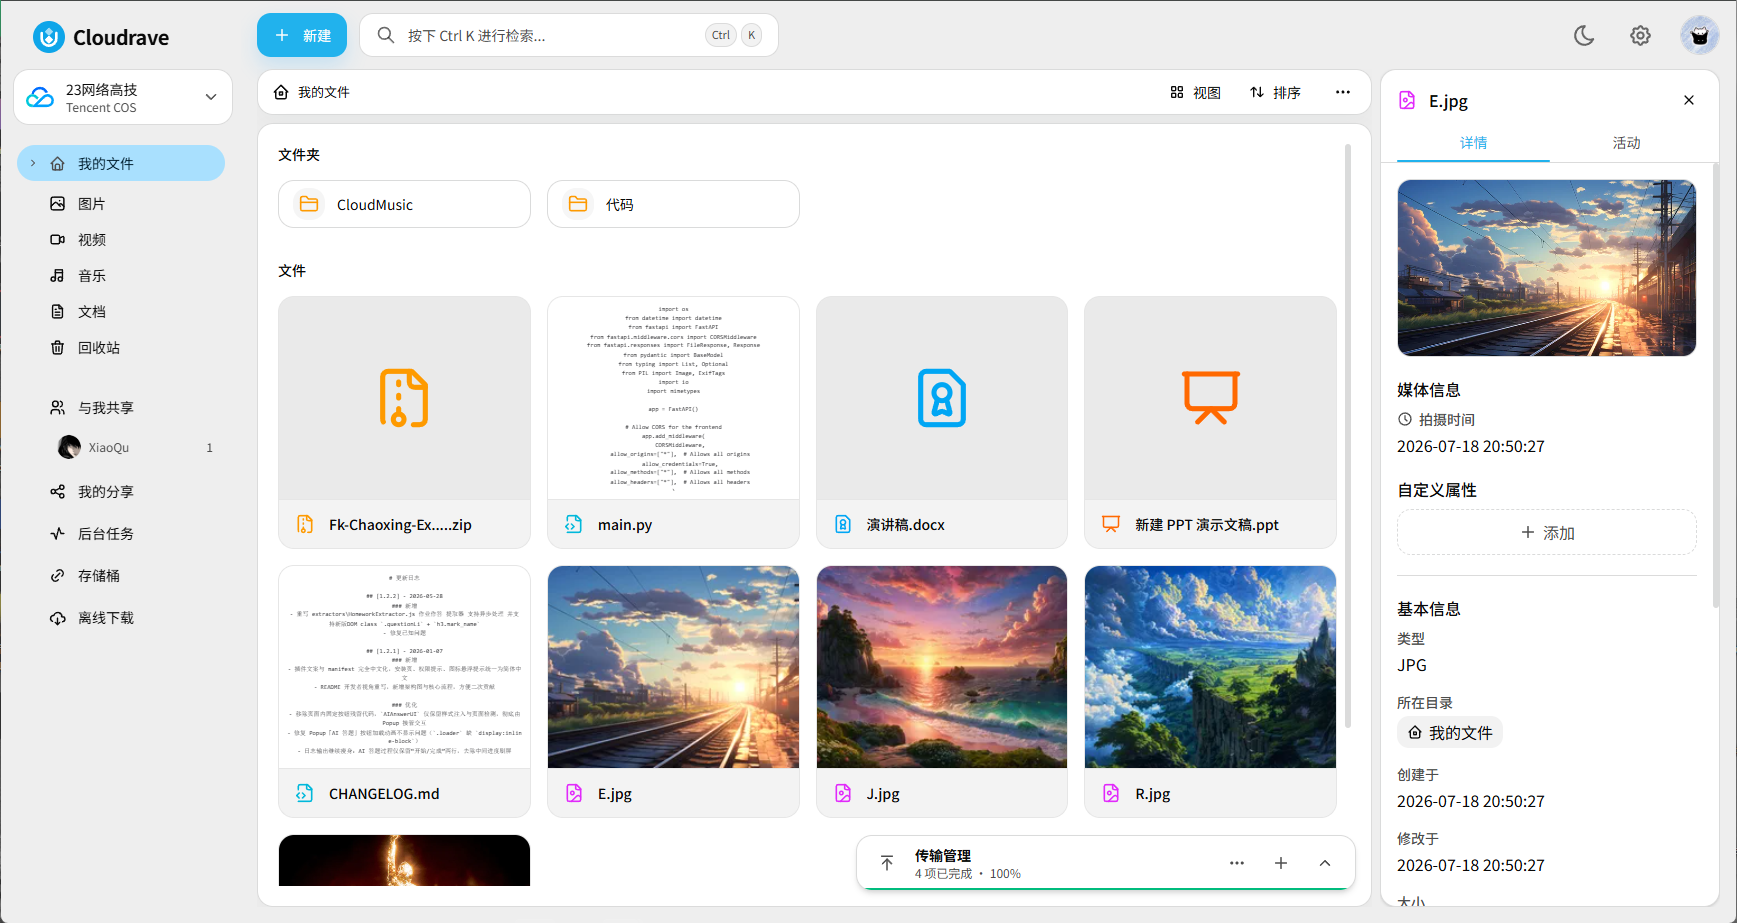
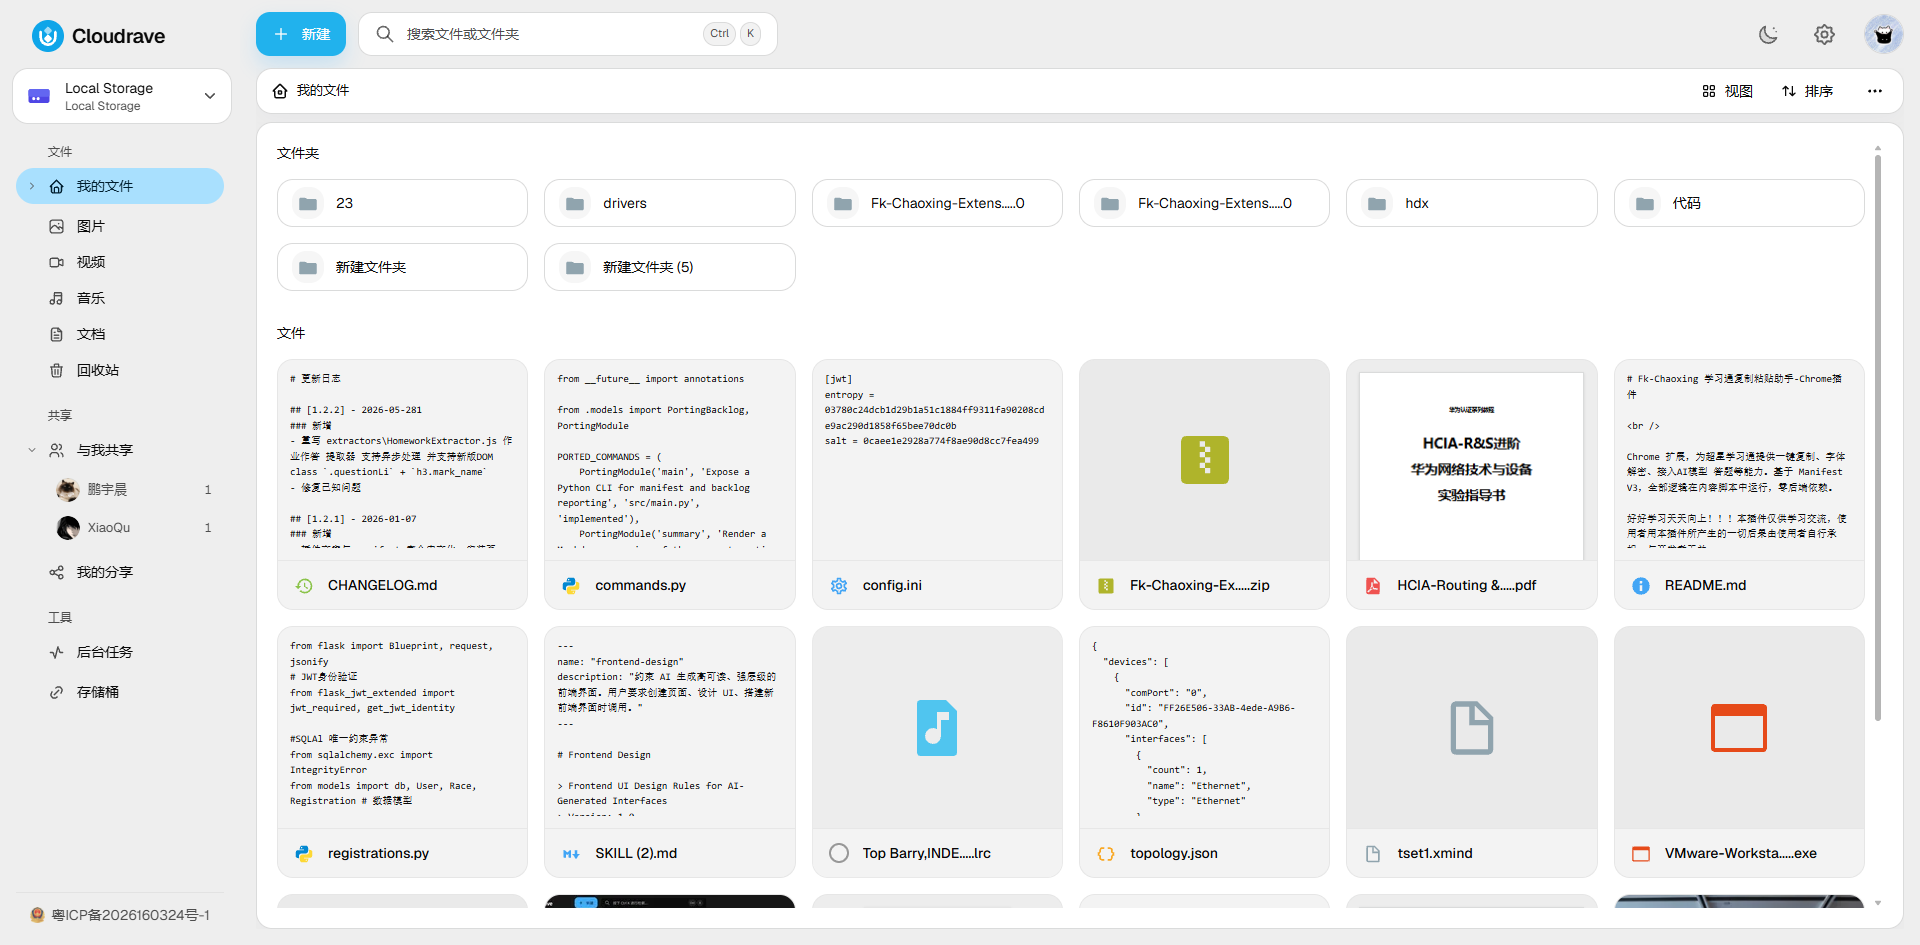
fix(docs): update README for clarity and improve content structure

diff --git a/README.md b/README.md
@@ -7,233 +7,114 @@
 </h1>
 
 <div align="center"><img src="./Cloudrave.png" width="1200"></img></div>
-<h4 align="center">Cloudrave — 支持多存储策略的公有云文件系统 API。</h4>
+<h4 align="center">能接公有云和主流网盘的自托管个人与团队云盘。</h4>
 
 <p align="center">
   <a href="https://fastapi.tiangolo.com/"><img src="https://img.shields.io/badge/FastAPI-0.116+-009688?logo=fastapi" alt="FastAPI"></a>
   <a href="https://www.python.org/"><img src="https://img.shields.io/badge/Python-3.12+-3776AB?logo=python" alt="Python"></a>
   <a href="https://www.sqlalchemy.org/"><img src="https://img.shields.io/badge/SQLAlchemy-2.0+-D71F00?logo=sqlalchemy" alt="SQLAlchemy"></a>
-  <a href="https://github.com/iPycc/Cloudrave/releases/tag/v1.0.0-beta.4"><img src="https://img.shields.io/badge/release-v1.0.0--beta.4-blue" alt="v1.0.0-beta.4"></a>
+  <a href="https://github.com/iPycc/Cloudrave/releases"><img src="https://img.shields.io/badge/release-v1.0.0--beta.5-blue" alt="v1.0.0-beta.5"></a>
 </p>
 
 <p align="center">
-  <a href="#-简介">简介</a> •
+  <a href="#-cloudrave-是什么">简介</a> •
   <a href="#-特性">特性</a> •
-  <a href="#-快速开始">快速开始</a> •
-  <a href="#-配置">配置</a> •
-  <a href="#-技术栈">技术栈</a> •
+  <a href="#-快速上手">快速上手</a> •
+  <a href="#-构建与打包">构建</a> •
+  <a href="#-技术栈后端">技术栈</a> •
   <a href="#-许可证">许可证</a>
 </p>
 
-## 📖 简介
+## 📖 Cloudrave 是什么？
 
-Cloudrave 是基于 Python + FastAPI 的多用户文件管理服务，提供身份认证、文件管理、分享、回收站和在线预览 API。当前开发版本为 **v1.0.0-beta.5**。
+Cloudrave 是基于 Python 3.12+ 与 FastAPI 构建的异步多存储云盘与虚拟文件系统服务。
 
-后端采用异步 SQLAlchemy ORM，支持 SQLite、PostgreSQL 和 MySQL。存储策略可连接本地文件系统、腾讯云 COS、阿里云 OSS，以及 139 移动云盘、189 天翼云盘和联通云盘。
+在底层设计上，Cloudrave 采用**元数据与物理存储解耦**的架构：通过 SQLAlchemy 2.0 异步 ORM 维护统一的虚拟文件系统（VFS）目录树、权限上下文与事务状态（支持 SQLite、MySQL 与 PostgreSQL 跨库在线迁移），同时通过标准化存储驱动层将本地磁盘、对象存储（腾讯云 COS、阿里云 OSS）及运营商网盘（139 移动、189 天翼、联通云盘）抽象为统一的异步读写与分片传输接口。数据链路默认优先协商客户端直传，并在跨域或网络受限时自动降级为后端流式分片中转，兼顾高吞吐与多存储后端的一致体验。
+
 
 ## ✨ 特性
 
-- **存储后端**：本地文件系统、腾讯云 COS、阿里云 OSS；139 移动云盘、189 天翼云盘、联通云盘以用户凭据连接。
-- **文件管理**：目录浏览、创建、重命名、移动、复制、回收站恢复和永久删除；支持多挂载及容量信息。
-- **上传和下载**：分片并行上传、断点续传、重复文件检查及下载；对象存储使用直传能力，运营商网盘优先直传，浏览器跨域或网络错误时可经 Cloudrave 中转上传分片。
-- **预览与编辑**：图片、视频、音频、PDF、Office、文本和压缩包预览；文本与 Markdown 保存、PDF 注释及图片另存为。
-- **分享**：文件和目录分享链接、访问密码、过期时间和分享下载。
-- **账号与权限**：JWT 与 Refresh Token、TOTP 双因素认证、Passkey/WebAuthn、GitHub/Google/QQ OAuth 关联；用户、管理员和访客权限控制。
-- **管理与运维**：存储策略和挂载管理、数据库连接测试与迁移、站点设置、审计记录、结构化日志、请求追踪、速率限制与安全响应头。
+- **存储挂载**：本地文件系统、腾讯云 COS、阿里云 OSS、139 移动云盘、189 天翼云盘、联通云盘；支持多路径挂载与容量显示。
+- **文件管理**：目录浏览、搜索、创建、重命名、移动、复制、多文件打包下载、回收站恢复与彻底删除。
+- **上传与下载**：分片并行上传、断点续传、秒传（重复文件检测）；公有云与运营商网盘优先浏览器直传，受限时自动回退后端中转。
+- **预览与编辑**：图片（含 HEIC）、音视频、PDF、Office、文本和压缩包（ZIP/7z）在线预览；支持文本/Markdown 编辑保存、PDF 注释与图片另存为。
+- **外链分享**：单文件或目录分享链接，支持提取密码、有效期限制、访客预览与下载。
+- **账号与权限**：JWT 认证、Passkey 通行密钥、TOTP 双因素认证、GitHub/Google/QQ 第三方登录；支持管理员、用户与访客权限控制。
+- **管理与运维**：站点设置、存储策略分配、数据库在线测试与热迁移、安全审计日志与请求速率限制。
 
-### 存储能力说明
+## 🚀 快速上手
 
-| 驱动 | 浏览与下载 | 上传 | 说明 |
-| --- | --- | --- | --- |
-| 本地文件系统 | 支持 | 后端接收 | 支持目录与文件管理 |
-| 腾讯云 COS | 支持 | 浏览器直传、分片上传 | 可配置桶 CORS |
-| 阿里云 OSS | 支持 | 浏览器直传、分片上传 | CORS 由 OSS 配置管理 |
-| 139 移动云盘 | 支持 | 浏览器直传；失败时可由后端中转分片 | 通过登录凭据连接 |
-| 189 天翼云盘 | 支持 | 浏览器直传；失败时可由后端中转分片 | 上传分片按运营商要求计算 MD5 |
-| 联通云盘 | 支持 | 浏览器直传或运营商上传协议 | 通过 WoCloud Web Token 连接 |
+### ⚡ 方式一：Releases 发行版
 
-运营商网盘的凭据由管理员或挂载所有者维护。中转上传会让文件分片经过 Cloudrave 服务器，部署时应为临时文件和请求体配置足够的磁盘空间与带宽。驱动能力受运营商接口和账号权限限制。
-
-## 🚀 快速开始
-
-### 环境要求
-
-- Python >= 3.12
-- 数据库：SQLite / PostgreSQL / MySQL（任选其一，默认 SQLite）
-- 如需生成视频海报，请安装 FFmpeg 并确保在系统 PATH 中
-
-### 安装依赖
+从 [GitHub Releases](https://github.com/iPycc/Cloudrave/releases) 下载对应系统的单文件可执行程序，直接运行即可（已内置前端界面，默认使用 SQLite）：
 
 ```bash
-cd Cloudrave
-pip install -e ".[dev]"
+./cloudrave        # Linux / macOS
+.\cloudrave.exe    # Windows
 ```
 
-### 启动服务
+启动后浏览器访问 `http://localhost:1309`。首次运行会在同级目录自动生成 `config.ini`、`data/` 和 `upload/` 目录。
 
-```bash
-python main.py
-```
+### 🐳 方式二：Docker Compose（推荐服务端部署）
 
-默认监听 `0.0.0.0:1309`，API 文档可在开发环境访问：
-
-- Swagger UI: http://127.0.0.1:1309/api/docs
-- ReDoc: http://127.0.0.1:1309/api/redoc
-
-生产环境下 `/api/docs` 会自动禁用。
-
-### Docker Compose
-
-在同时包含 `Cloudrave/` 和 `Frontend/` 的工作区根目录运行：
+在同时包含 `Cloudrave/` 和 `Frontend/` 的工作区根目录下运行：
 
 ```bash
 docker compose up -d --build
 ```
 
-访问 `http://localhost:1309`。默认启动 Cloudrave 和 MySQL 两个容器；`ffprobe` 和用于视频缩略图、转码的 `ffmpeg` 安装在 Cloudrave 容器内，由后端直接调用。MySQL 仅在 Compose 网络内开放。数据库、上传文件、预览缓存和 `config.ini` 保存在 Docker 数据卷中。对外部署前，请同步修改工作区根目录 `docker-compose.yml` 中的 MySQL 密码和 `CLOUDRAVE_DATABASE_URL`。
+启动后访问 `http://localhost:1309`（默认包含 Cloudrave 与 MySQL 容器，并内置 `ffmpeg` 用于生成视频缩略图）。
 
-## ⚙ 配置
+> 生产环境对外开放前，请记得修改 `docker-compose.yml` 中的数据库密码及 `config.ini` 中的安全密钥。
 
-首次启动时会自动在项目目录下创建 `config.ini`，主要配置项如下：
+### 💻 方式三：从源码运行（本地开发）
 
-```ini
-[app]
-name = Cloudrave
-env = development
-host = 0.0.0.0
-port = 1309
-cors_origins = http://localhost:9130,http://127.0.0.1:9130
-local_upload_root = upload
-preview_cache_root = data/preview-cache
-
-[database]
-database = sqlite
-sqlite_path = data/cloudrave.db
-mysql_host = 127.0.0.1
-mysql_port = 3306
-mysql_user = root
-mysql_password = change-me
-mysql_name = cloudrave
-postgresql_host = 127.0.0.1
-postgresql_port = 5432
-postgresql_user = postgres
-postgresql_password = change-me
-postgresql_name = cloudrave
-pool_size = 10
-max_overflow = 20
-pool_pre_ping = true
-
-[auth]
-jwt_secret = change-me-cloudrave-jwt-secret-at-least-32-bytes
-access_token_ttl_minutes = 15
-refresh_token_ttl_days = 30
-
-[logging]
-level = INFO
-use_color = true
-```
-
-生产部署前请务必修改 `jwt_secret`、`totp_secret_key`、`backup_codes_key`、`share_signing_key` 等敏感密钥。
-
-### 数据库切换
-
-`[database].database` 仅接受 `sqlite`、`mysql` 或 `postgresql`。MySQL/PostgreSQL 用户需要提前创建，并授予建库、建表、索引、读写和事务权限。管理员在切换向导中测试连接时，如果目标数据库不存在，Cloudrave 会自动创建；如果用户没有建库权限，页面会给出明确提示，此时也可以由数据库管理员预先创建目标数据库。
-
-管理员可从前端“系统设置 → 数据库”完成连接测试和数据迁移。运行中修改 `config.ini` 后，前端会自动显示迁移向导；可以选择把当前库的数据复制到目标库，或保留目标库现有数据。复制前会为非空目标库生成带 SHA-256 清单的逻辑备份。数据库元数据迁移完成后需要手动重启后端，原数据库和存储中的物理文件都不会被删除。
-
-`CLOUDRAVE_DATABASE_URL` 或非空的 `[database].url` 仍具有最高优先级。使用这两种覆盖方式时，管理页面只显示连接来源，不允许通过分字段向导切换数据库。
-
-### OAuth 登录
-
-管理员先在「设置 → 站点设置」保存用户实际访问的 HTTPS 网站链接，然后到「设置 → 账号与安全」展开对应的 OAuth 配置，复制显示的回调地址。站点域名变更后，也要更新第三方平台登记的回调地址。应用密钥加密保存在数据库中，配置页只显示是否已配置。
-
-#### GitHub
-
-1. 在 [GitHub OAuth Apps](https://github.com/settings/developers) 选择 **New OAuth App**，将 **Homepage URL** 填为 Cloudrave 网站链接。
-2. 将 Cloudrave 显示的完整回调地址填入 **Authorization callback URL**，注册应用并生成 Client Secret。
-3. 回到 Cloudrave，填入 **Client ID** 和 **Client Secret**，保存并开启。
-
-#### Google
-
-1. 在 [Google Auth Platform](https://console.cloud.google.com/auth/overview) 选择项目，配置应用的同意屏幕和受众。如果测试状态限制了授权账号，在 **Audience** 中添加测试用户。
-2. 到 **Clients** 创建 **Web application**，将 Cloudrave 显示的完整回调地址填入 **Authorized redirect URIs**。
-3. 回到 Cloudrave，填入 **Client ID** 和 **Client Secret**，点击「保存配置」，再点击「测试登录」。测试通过后点击「开启 Google OAuth」。更换凭据或回调地址后需重新测试。
-
-#### QQ
-
-1. 在 [QQ 互联管理中心](https://connect.qq.com/manage.html#/) 创建**网站应用**，按页面要求填写站点资料和 Cloudrave 显示的回调地址，提交审核。
-2. 审核通过后，在 Cloudrave 的 QQ OAuth 配置中填入 **App ID** 和 **App Key**，保存并开启。
-
-启用后，用已有 Cloudrave 账号登录，在「账号与安全」点击对应的「关联 GitHub」「关联 Google」或「关联 QQ」。关联完成后，就能在登录页使用对应的第三方账号。
-
-## 📦 构建与部署
-
-### 全栈模式（前后端同一端口）
-
-Cloudrave 后端可以嵌入前端编译产物，作为统一服务运行：
-
-1. 构建前端并嵌入到后端 `assets/` 目录：
-
-```bash
-pnpm install --frozen-lockfile
-pnpm build
-```
-- 将 `./frontend/dist/` 复制到 `./Cloudrave/assets/`
-
-2. 启动后端：
+**1. 启动后端**（需 Python >= 3.12，可选安装 FFmpeg）：
 
 ```bash
 cd Cloudrave
+pip install -e ".[dev]"
 python main.py
 ```
 
-访问 `http://localhost:1309/` 即可同时访问前端与 API。
+后端默认运行在 `http://127.0.0.1:1309`（开发环境 API 文档：`/api/docs`）。
 
-如果 `Cloudrave/assets/` 为空（只有 `.gitkeep`），后端将仅作为 API 服务运行。
-
-### 构建独立可执行文件
-
-#### 本地打包（当前平台）
+**2. 启动前端**（前后端分离调试时使用，需 Node.js 与 pnpm）：
 
 ```bash
-cd Cloudrave
-pip install -e ".[build]"
-python build_binary.py
+cd Frontend
+pnpm install
+pnpm dev
 ```
 
-输出为单文件可执行程序：
+前端开发服务运行在 `http://localhost:9130`，会自动将 `/api` 请求代理至后端。
 
-- Windows：`dist/cloudrave.exe`
-- Linux / macOS：`dist/cloudrave`
+## 📦 构建与打包
 
-首次运行后，可执行文件同级目录会自动生成 `config.ini`、数据库与上传目录，这些文件会持久化保留。
+### 🧩 1. 构建全栈资源（前后端合一，单端口运行）
 
-#### 一步完成前端嵌入 + 二进制打包
+在工作区根目录执行脚本，会自动编译前端并将产物放入 `Cloudrave/assets/`：
 
 ```bash
+python build-fullstack.py
+```
+
+完成后直接运行 `python Cloudrave/main.py`，访问 `http://localhost:1309` 即可同时使用前端页面与后端 API。
+
+### 🔨 2. 打包为单文件可执行程序
+
+在工作区根目录一键完成「前端编译 + 嵌入后端 + PyInstaller 二进制打包」：
+
+```bash
+pip install -e "./Cloudrave[build]"
 python build-fullstack.py --binary
 ```
 
-#### 多平台 CI 打包
+打包产物位于 `Cloudrave/dist/`（Windows 下为 `cloudrave.exe`，Linux / macOS 下为 `cloudrave`）。
 
-仓库包含 [`.github/workflows/build-binaries.yml`](.github/workflows/build-binaries.yml)。手动触发会进行一次不发布的多平台构建预演；推送 `v*` 标签后，会构建完整嵌入前端的 Linux x86_64、Windows x86_64、macOS ARM64 与 macOS Intel 原生可执行文件，并连同 SHA-256 校验清单直接发布到 GitHub Release（不再套用 ZIP 或 tar.gz 压缩包）。
+## 🛠 技术栈（后端）
 
-发布使用的前端提交固定记录在 [`.frontend-ref`](.frontend-ref) 中。更新前端后，应先通过前端验证并推送提交，再更新此文件，确保发布构建可复现。
-
-```bash
-git tag -a v1.0.0-beta.1 -m "Cloudrave v1.0.0-beta.1"
-git push origin v1.0.0-beta.1
-```
-
-## 🛠 技术栈
-
-- [Python 3.12+](https://www.python.org/) + [FastAPI](https://fastapi.tiangolo.com/) + [Uvicorn](https://www.uvicorn.org/)
-- [SQLAlchemy 2.0](https://www.sqlalchemy.org/) + [Alembic](https://alembic.sqlalchemy.org/) 异步数据库访问与迁移
-- [Pydantic](https://docs.pydantic.dev/) 数据校验与配置管理
-- [Argon2](https://argon2-cffi.readthedocs.io/) 密码哈希 + [PyJWT](https://pyjwt.readthedocs.io/) 令牌
-- [PyOTP](https://pyotp.readthedocs.io/) TOTP 双因素认证 + [webauthn](https://github.com/duo-labs/py_webauthn) Passkey
-- 前端：[React 19](https://react.dev/) + [Vite](https://vitejs.dev/) + [Tailwind CSS](https://tailwindcss.com/)
-
+- **核心框架**：Python 3.12+ / FastAPI / Uvicorn / Pydantic v2
 ## 📜 许可证
 
 MIT
